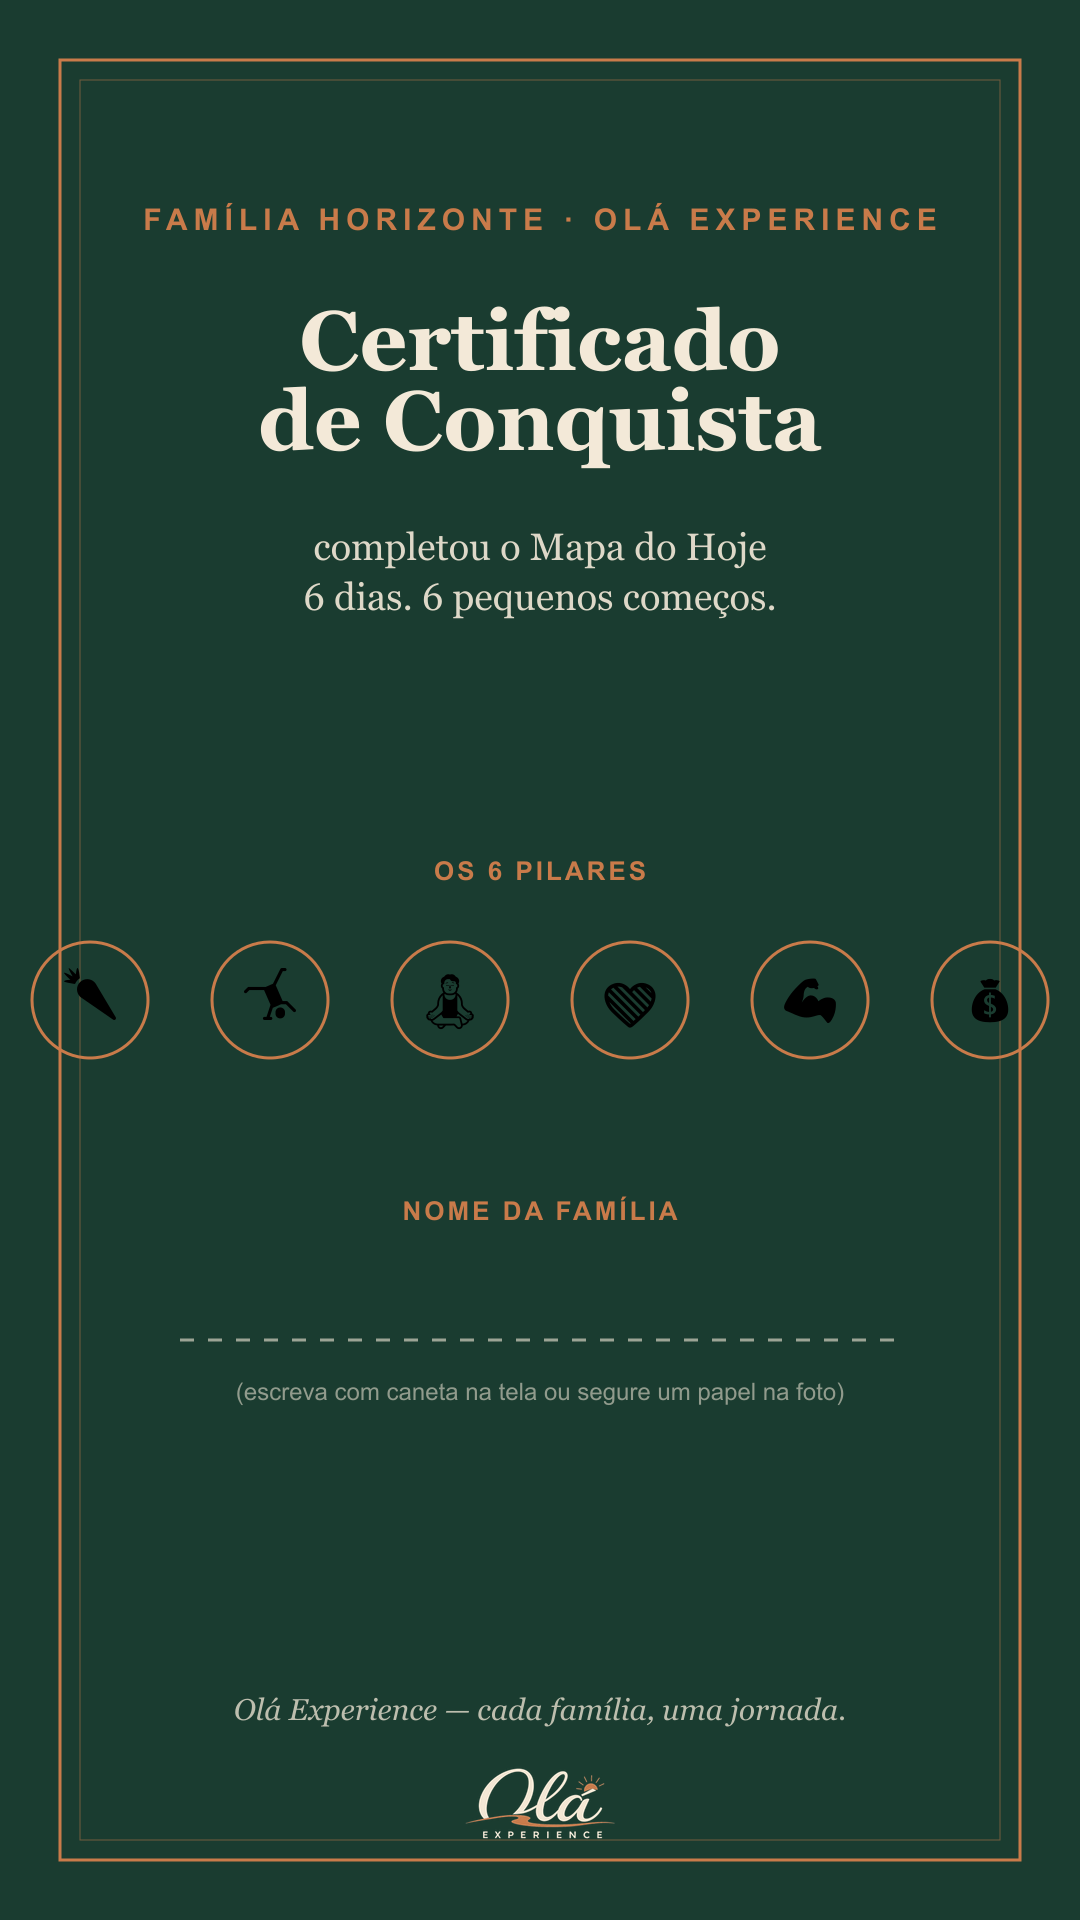
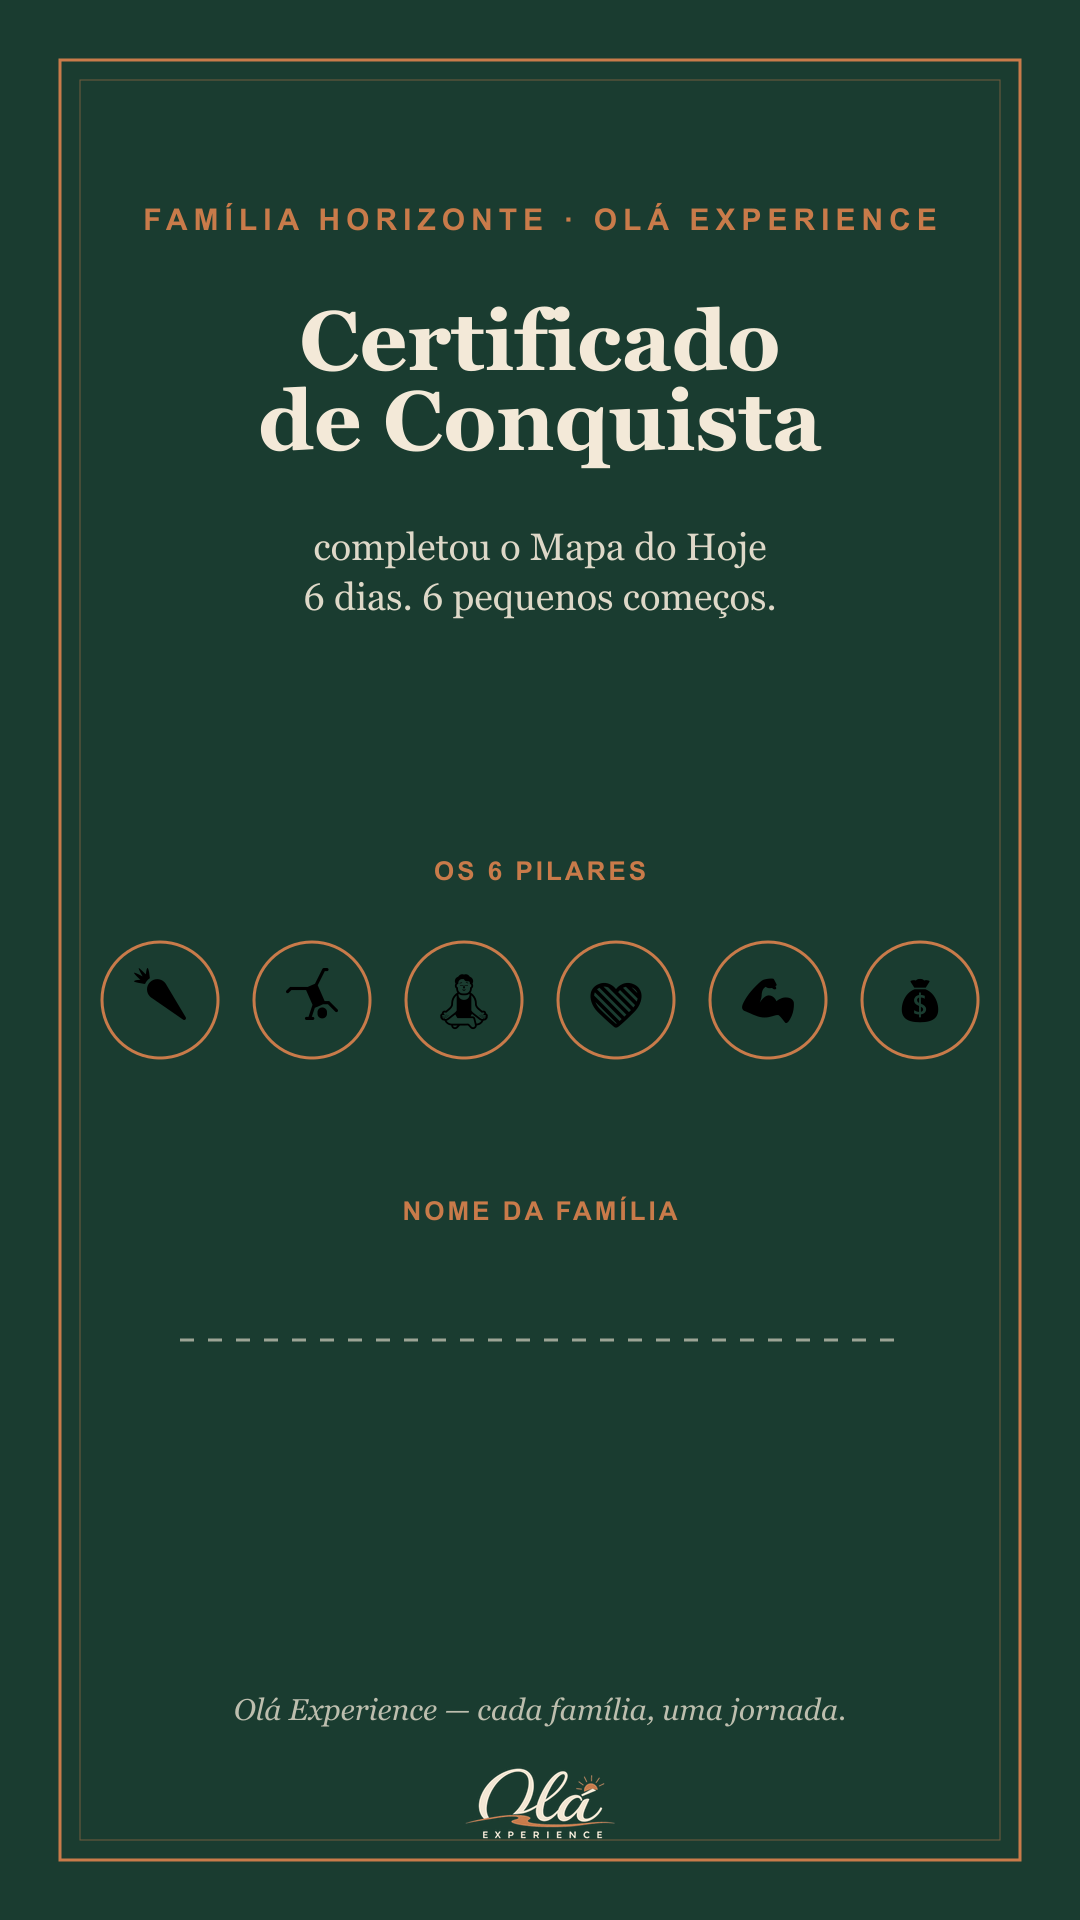
fix: corrige certificado do Mapa do Hoje - ícones vazando da moldura e instrução gravada na imagem
Jorge Helder testou no celular e achou 2 problemas: os 6 ícones de pilar
extrapolavam a borda dupla laranja (espaçamento mal calculado pro raio dos
círculos); e a instrução de como escrever o nome ficava gravada na imagem,
o que impediria a família de removê-la antes de postar no Stories. Corrige
o espaçamento e remove a instrução da imagem (já explicada na página fora
da imagem).

Claude-Session: https://claude.ai/code/session_01VAjyqDECBW1xuQidrcFVFt

diff --git a/TEMPESTADE DE IDEIAS/produto-mapa-do-hoje.md b/TEMPESTADE DE IDEIAS/produto-mapa-do-hoje.md
@@ -119,7 +119,11 @@ Testado visualmente no browser: checklist marca progresso e navega pros dias, fo
 
 **Link redundante removido das páginas de dia (10/09/2026, ~19h):** Jorge Helder notou que o link "Ver progresso dos 6 dias →" (adicionado junto com o check-in) duplicava o "Voltar pro checklist" que já tínhamos combinado deixar como único link de navegação. Removido — cada página de dia (`dia1.html`–`dia6.html`) agora tem só foto + check-in + frase de efeito + "Voltar pro checklist".
 
-**Ainda pendente de push:** QR codes maiores + esse ajuste de link. Aguardando autorização do Jorge Helder.
+**Certificado corrigido (10/09/2026, ~19h15):** Jorge Helder testou `certificado.html` no celular e achou 2 problemas reais:
+1. Os 6 ícones dos pilares vazavam pra fora da moldura dupla laranja — bug de cálculo de espaçamento no script (`pilaresRow()`: raio 58px, mas o primeiro/último círculo caíam fora da borda interna). Corrigido.
+2. A instrução "(escreva com caneta na tela ou segure um papel na foto)" estava gravada dentro da imagem — como o certificado é uma imagem fixa, a família não conseguiria apagar isso depois de escrever o nome, ficaria feio no Stories postado. Removida da imagem (já está explicada nos passos "Como postar nos Stories" na página, fora da imagem).
+
+**Ainda pendente de push:** certificado corrigido (esse ajuste). Aguardando autorização do Jorge Helder.
 
 ## Próximos passos (workflow Fase 0 do squad, 16 dias)
 
